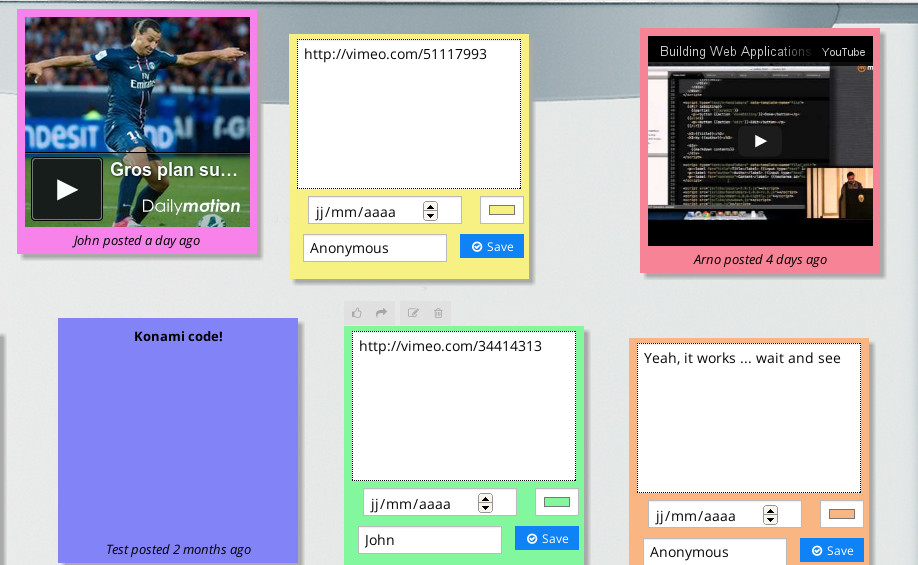
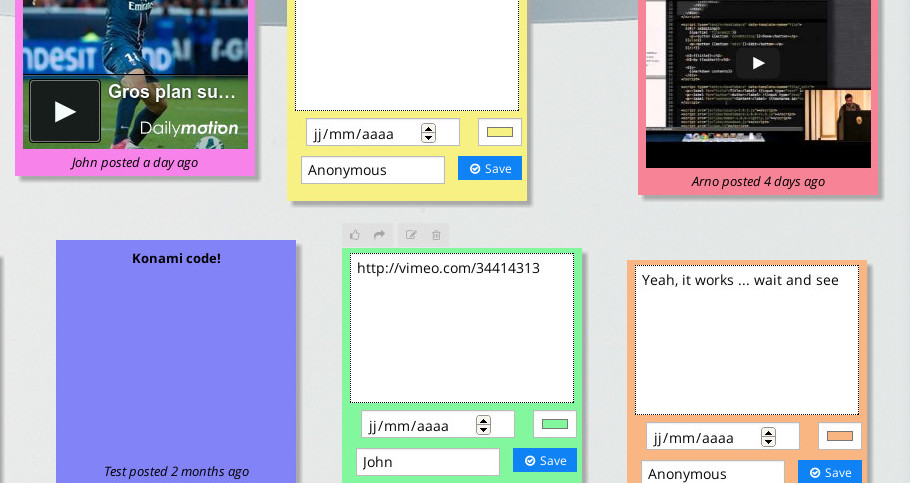
design tweak

diff --git a/pomf-client/index.html b/pomf-client/index.html
@@ -84,7 +84,7 @@
 	<script type="text/x-handlebars" data-template-name="index">
 		<div class="container-fluid">
 			<div class="row-fluid">
-				<div class="span8 offset2">
+				<div class="span10 offset1">
 					<p>		
 						<div class="addthis_toolbox addthis_default_style ">
 							<a class="addthis_button_facebook_like" fb:like:layout="button_count"></a>
@@ -96,7 +96,7 @@
 				</div>
 			</div>	
 			<div class="row-fluid">		
-				<div class="span8 offset2 hero-unit">
+				<div class="span10 offset1 hero-unit">
 					<div class="row-fluid">
 						<div class="span12 title-fridge">
 							<h1>Post on my fridge</h1>
@@ -129,7 +129,7 @@
 											<img src="../../images/index/index-overview.jpeg" alt="">
 										</div>
 										<div class="carousel-caption">
-                      						<h4>Overview</h4>
+                      						<h4><i class="icon-eye-open"></i> Overview</h4>
                       						<p>Yes it is awesome.</p>
                     					</div>
 									</div>

diff --git a/pomf-client/css/layout.css b/pomf-client/css/layout.css
@@ -16,7 +16,7 @@ header {
 	
 .rss-link {
     border:none;
-    padding-left:15px}
+    padding-left:10px}
 
 #fridge-title{
 	width: 40%;
@@ -36,11 +36,15 @@ header {
 #header-interaction{
 	margin-top: 5px;
 	float:right;
-	width:50%;
+	text-align: right;
+	width:55%;
 	height:100%;}
 
 #header-interaction input{
-	margin-right: 10px;}	
+	margin-right: 10px;}
+
+#header-interaction button{
+	margin-right: 10px;}		
 
 .global {
 	position:relative;
